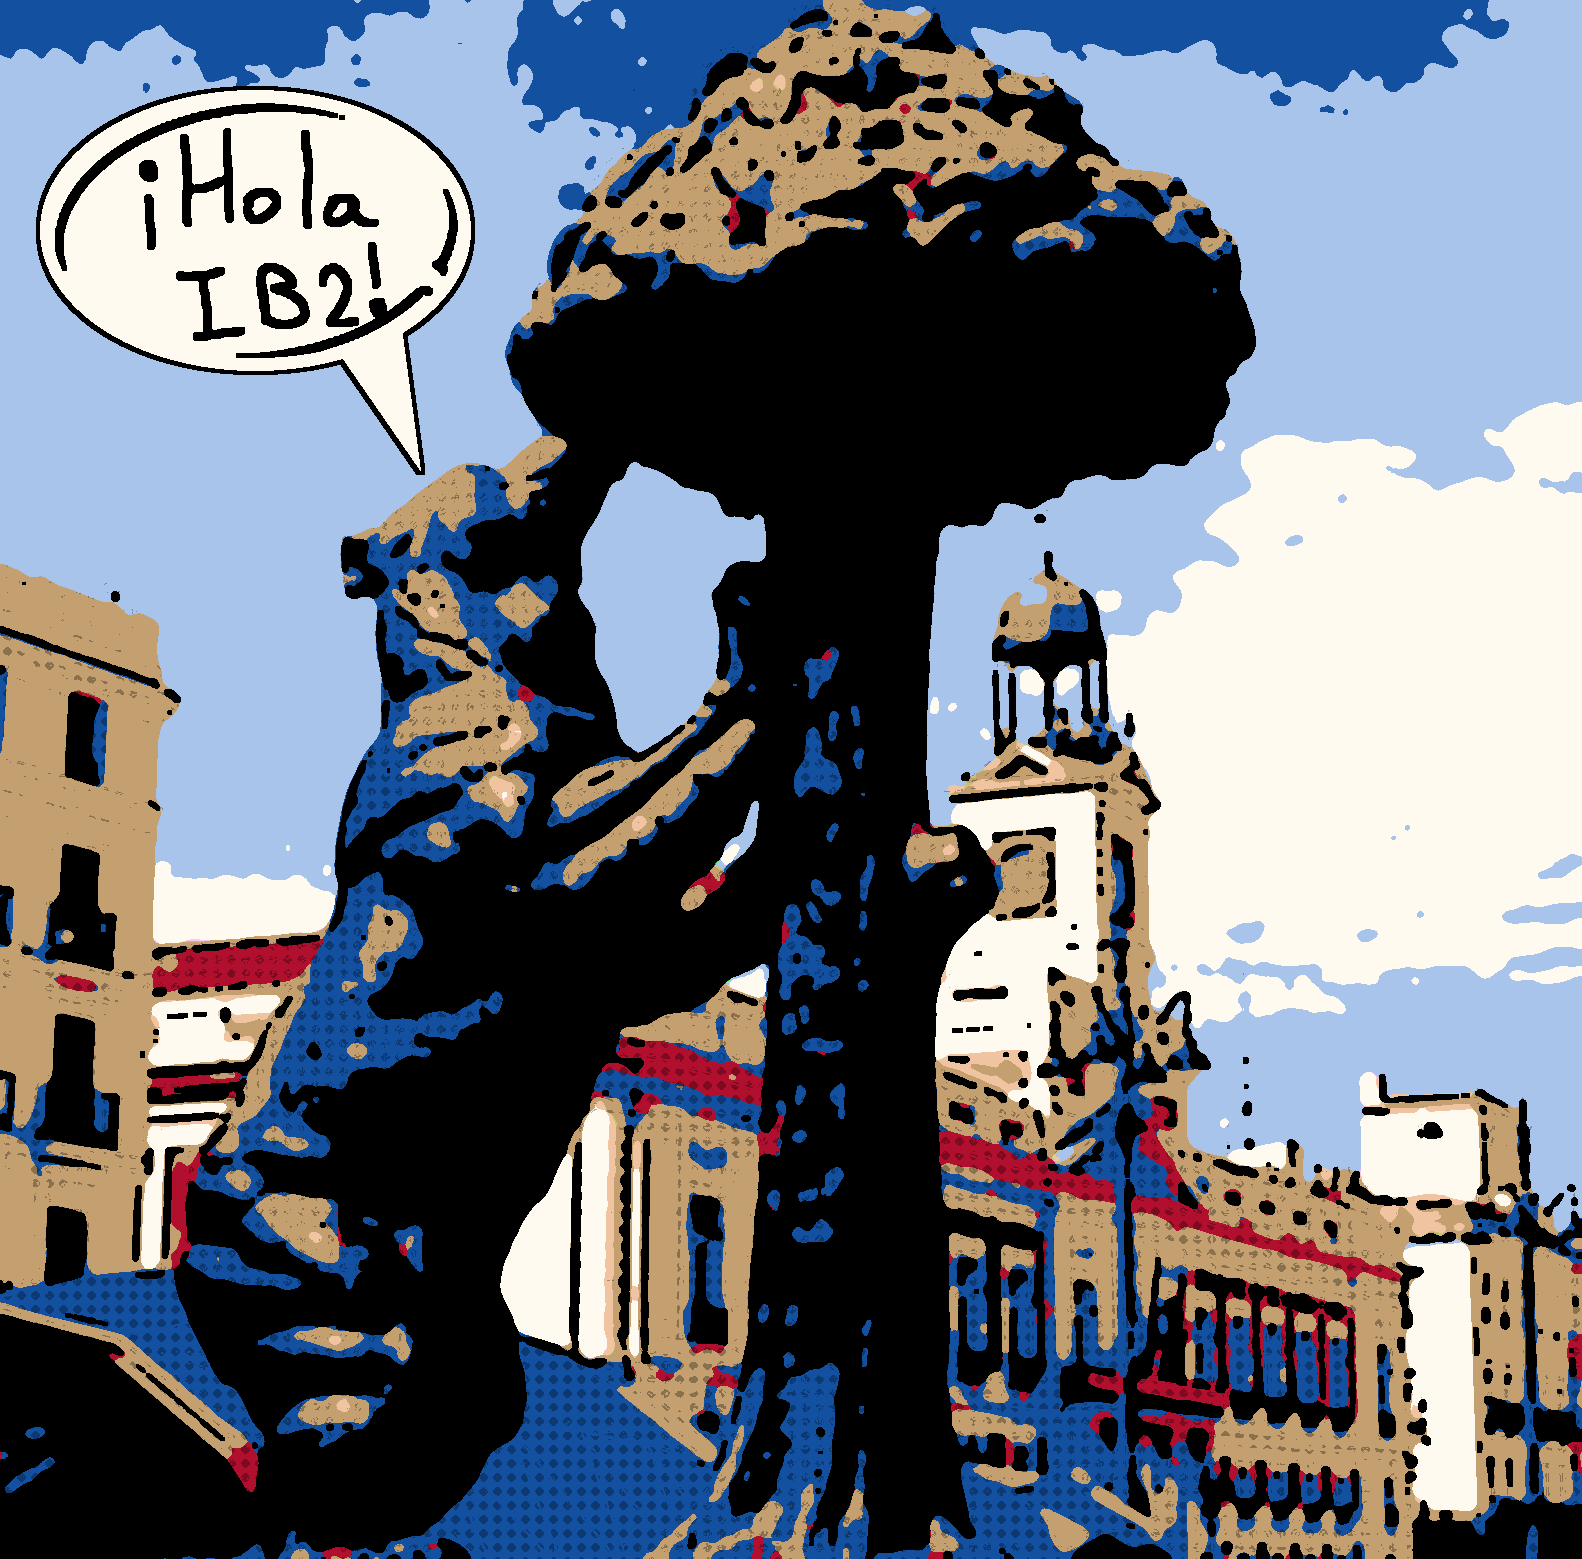
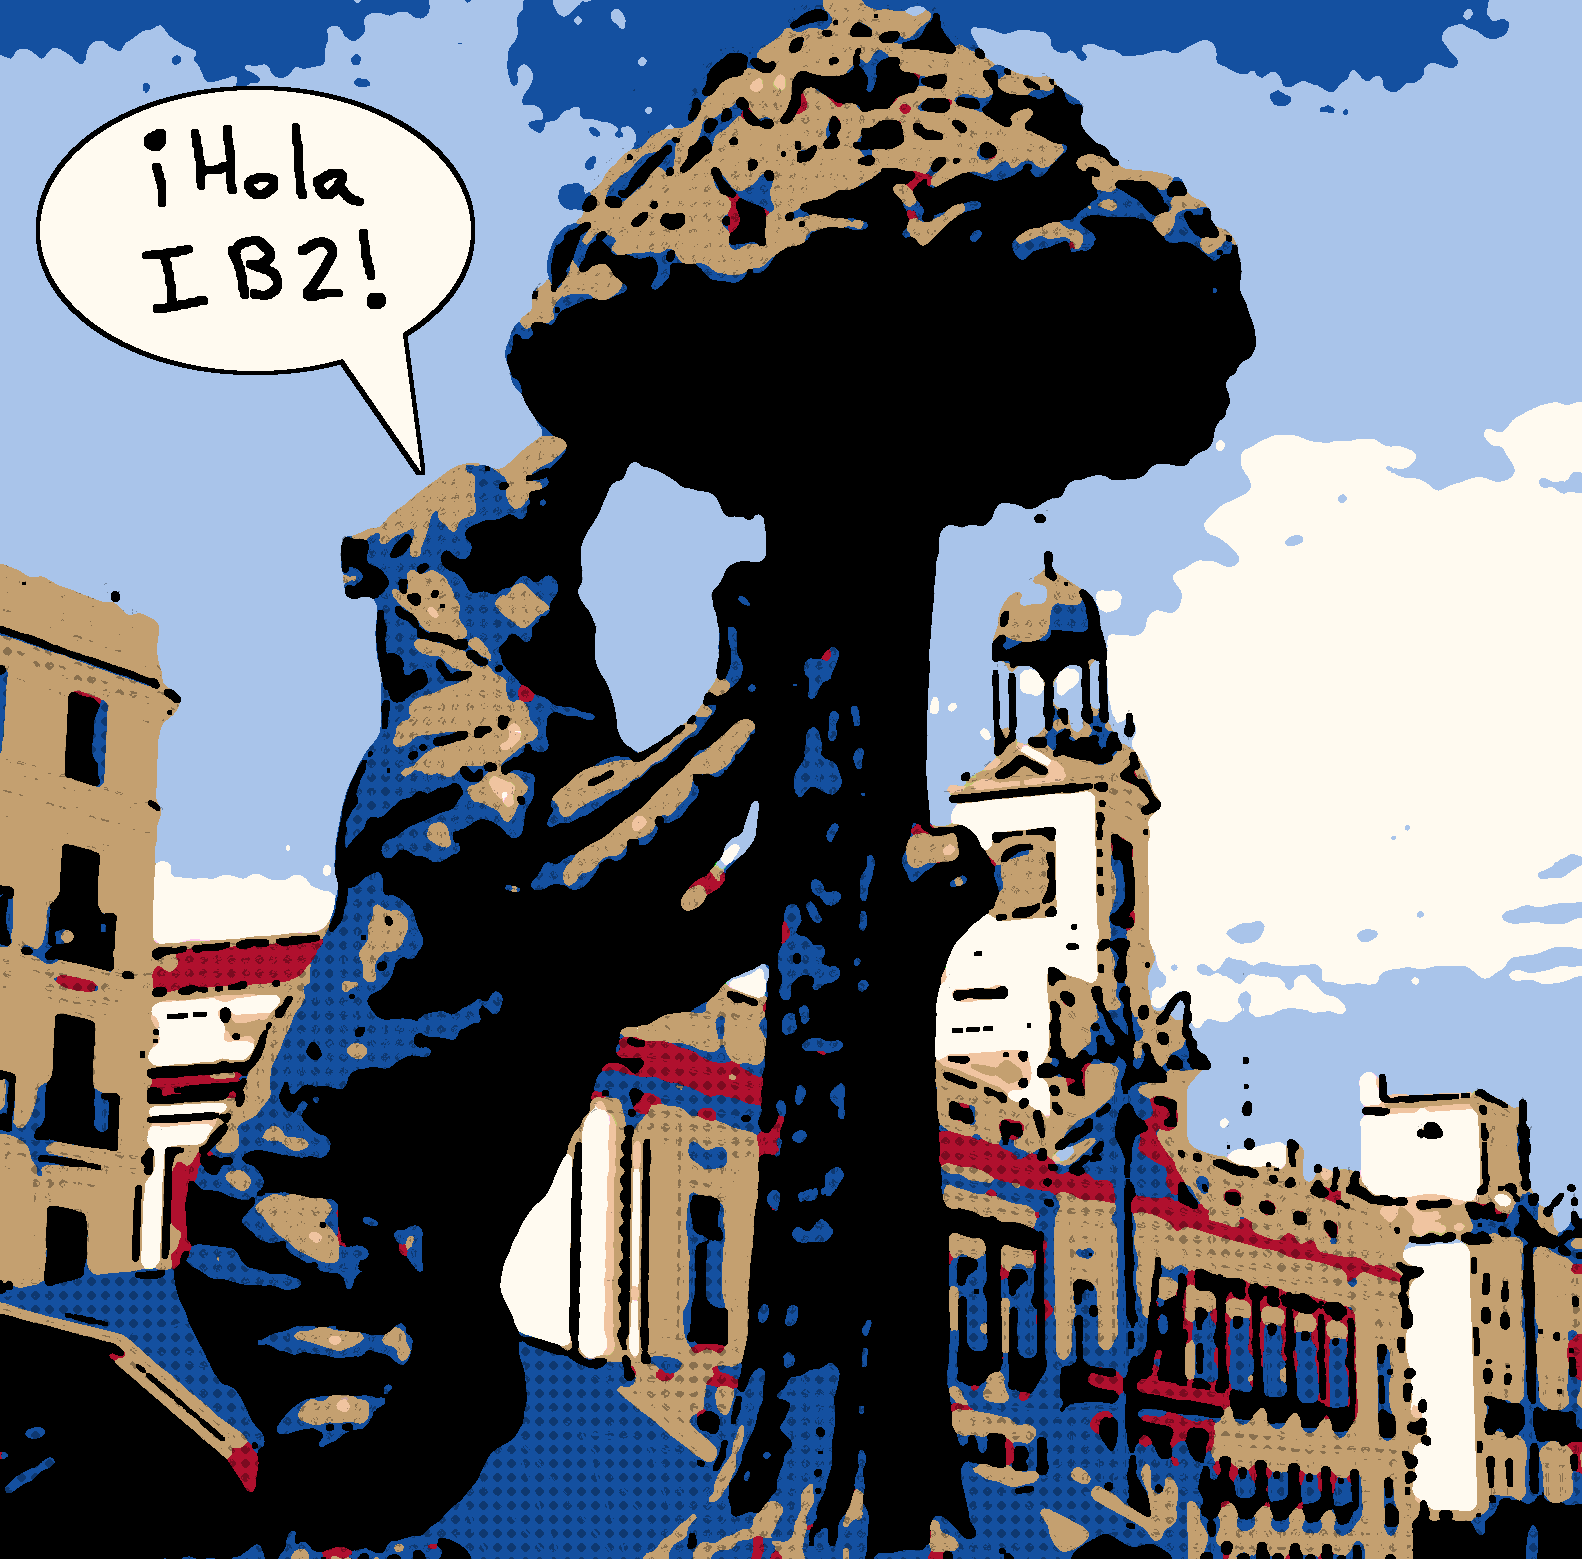
cover bubble lettered by Nick

Changed region(s): [[0.031, 0.0616, 0.2788, 0.2463], [0.2788, 0.1232, 0.3097, 0.1847]]

diff --git a/tools/bubble.py b/tools/bubble.py
@@ -64,7 +64,7 @@ def apply(export, n):
     ox0, oy0, ox1, oy1 = OVAL
     ImageDraw.Draw(inside).ellipse((ox0 - CROP[0] + 10, oy0 - CROP[1] + 10, ox1 - CROP[0] - 10, oy1 - CROP[1] - 10), fill=255)
     letters = Image.fromarray(np.minimum(np.asarray(letters), np.asarray(inside)))
-    letters = letters.filter(ImageFilter.MaxFilter(3))  # a touch bolder so it holds up in print
+    letters = letters.filter(ImageFilter.MaxFilter(5))  # a touch bolder so it holds up in print
     cover = draw_bubble(Image.open("art/cover.png").convert("RGB"))
     full = Image.new("L", cover.size, 0)
     full.paste(letters, (CROP[0], CROP[1]))
